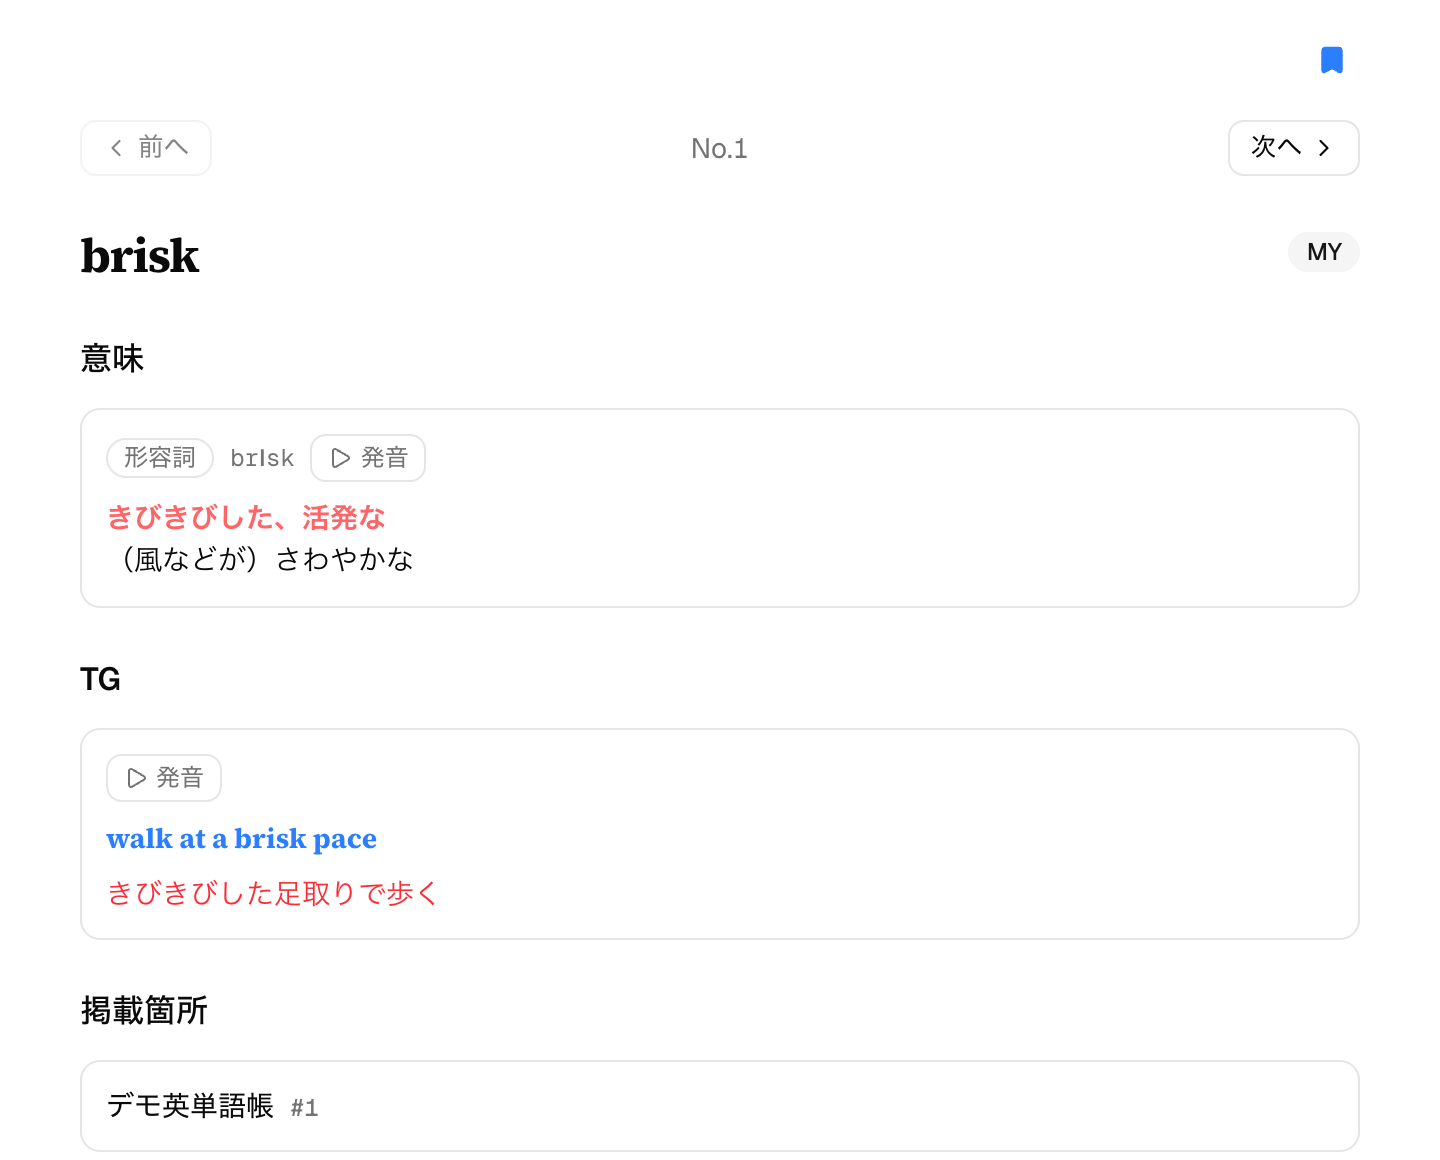
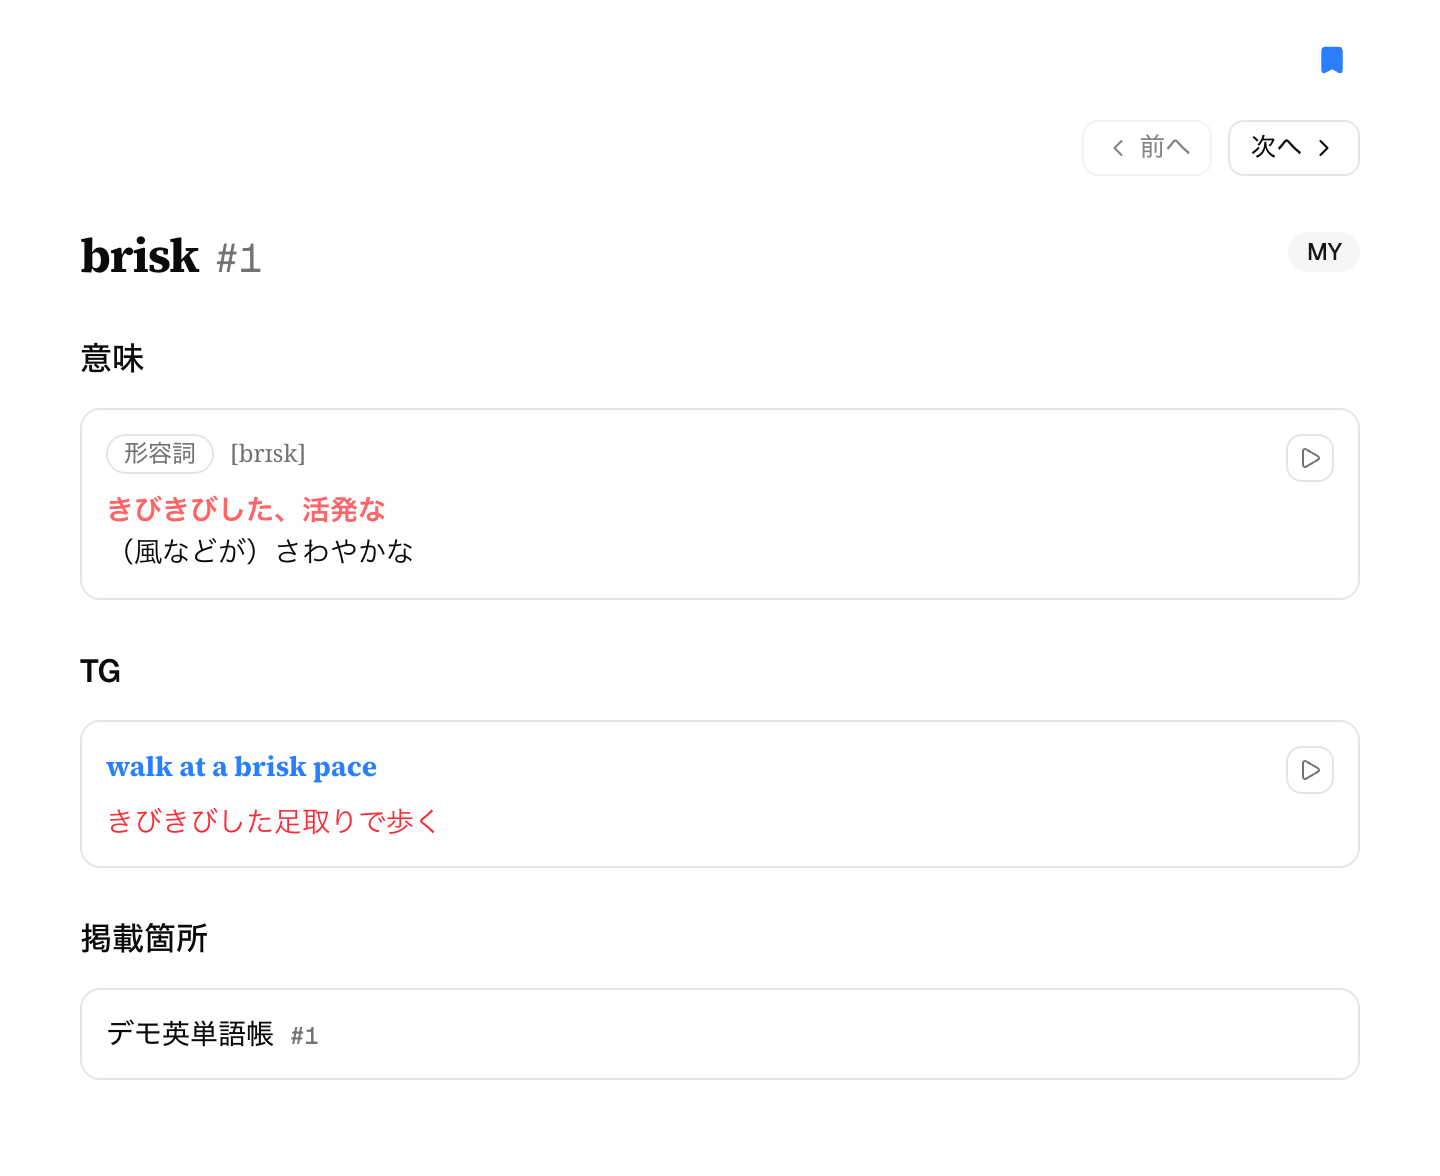
docs: 単語詳細ダイアログの画像を再撮影し被写体の注意書きを追加
bookmark-quiz-result-dialog.png が 2026-08-04 撮影のままで、その後の単語
詳細の UI 変更（8216735 掲載番号を見出し語の右へ・前後ナビ右詰め、9ec62f0
カード全体タップ＝発音ボタンがアイコンのみ）が反映されていなかった。
pnpm e2e:capture-docs --only bookmark で再撮影して差し替える。

同時に再撮影した bookmark / words の他画像は、デッキ語の作り直しによる
行順・データ差とレンダリングノイズのみのためコミットに含めない。words
セクションの word-detail.png / word-new.png は再撮影しても現行画像と一致
（9ec62f0 で撮影済み）で、同種のドリフトは無い。

再発防止として docs/features/README.md に「画像の被写体はファイル名・
セクション名と一致しない」注意を追記した（単語詳細は word-detail.png
だけでなく bookmark-quiz-result-dialog.png にも写る）。

Closes #245

diff --git a/docs/features/README.md b/docs/features/README.md
@@ -43,6 +43,11 @@ pnpm e2e:capture-docs  # docs/features/images/ に一括出力
   （セクション名はスクリプト内 `SECTIONS` を参照）。`quiz` / `settings` / `bookmark` の
   いずれかを含めると撮影用デッキ語（brisk 等）が作り直され、共有している dev DB 上の
   進行中の定着モードは消える（ブックマークはスクリプトが自動で付け直す）。
+- **画像の被写体はファイル名・セクション名と一致しない**。UI を変更したときは、変更した
+  コンポーネントが写っている画像をファイル名から推測せず、どの画面に出るかで探す。例として
+  単語詳細（見出し語まわり・前後ナビ・発音の再生操作）は `words` セクションの
+  `word-detail.png` だけでなく、`bookmark` セクションの `bookmark-quiz-result-dialog.png`
+  （単語テスト結果の詳細ダイアログ）にも写る。
 - 撮影内容はローカル DB の登録データに依存する。commit 前に画像を目視レビューし、
   公開して問題ない内容かを確認すること。特に部分再撮影では、意図した画面以外の画像に
   被写体の欠落（ブックマークの塗り潰し・AI入力導線など）が出ていないかを差分で確認する。
